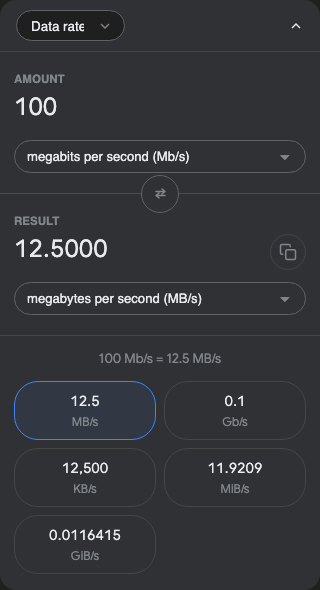
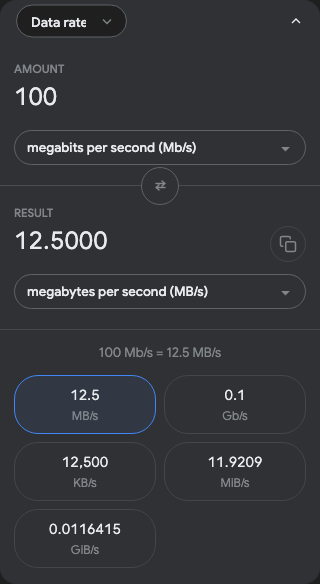
fix(converter): use native accordion typography and dimensions

diff --git a/plugins/unit-slot/style.css b/plugins/unit-slot/style.css
@@ -16,8 +16,9 @@
     box-sizing: border-box;
 }
 
-.uxs-main {
+.uxs-wrap > .uxs-main {
     position: relative;
+    margin-bottom: 0 !important;
 }
 
 /* Reuse visible core panes. The themes make self-contained knowledge wrappers
@@ -36,14 +37,8 @@
 /* ── Category bar ──────────────────────────────────────────────── */
 
 .uxs-top-bar {
+    /* The core disclosure button owns the row's typography and dimensions. */
     position: relative;
-    isolation: isolate;
-    display: flex;
-    align-items: center;
-    min-height: 52px;
-    border-bottom: 1px solid var(--border-light, color-mix(in srgb, currentColor 15%, transparent));
-    padding: 8px 52px 8px 16px;
-    background: transparent;
 }
 
 .uxs-wrap [hidden] {
@@ -51,19 +46,25 @@
 }
 
 .uxs-summary {
-    position: relative;
-    z-index: 1;
-    flex: 1;
     min-width: 0;
-    pointer-events: none;
+    overflow: hidden;
+    text-overflow: ellipsis;
+    white-space: nowrap;
+}
+
+.uxs-wrap[data-collapsed="false"] .uxs-summary {
+    visibility: hidden;
 }
 
 .uxs-category-wrap {
-    flex: 0 1 auto;
-    position: relative;
+    /* Keep the independent picker above the expanded disclosure's label. */
+    position: absolute;
+    left: 16px;
+    top: 50%;
+    transform: translateY(-50%);
     z-index: 1;
     min-width: 0;
-    max-width: 100%;
+    max-width: calc(100% - 68px);
 }
 
 .uxs-category-wrap::after {
@@ -91,55 +92,18 @@
     pointer-events: none;
 }
 
-.uxs-summary {
-    overflow: hidden;
-    text-overflow: ellipsis;
-    white-space: nowrap;
-    font-size: 0.88rem;
-    font-variant-numeric: tabular-nums;
-}
-
-.uxs-toggle {
-    /* The disclosure fills the row; the native picker remains above it. */
-    position: absolute;
-    inset: 0;
-    z-index: 0;
-    display: flex;
-    align-items: center;
-    justify-content: flex-end;
-    width: 100%;
-    height: 100%;
-    padding: 0 16px;
-    border: 0;
-    border-radius: 0;
-    background: transparent;
-    color: var(--text-primary, inherit);
-    cursor: pointer;
-}
-
-.uxs-toggle:hover {
-    background: var(--bg-hover, rgba(128, 128, 128, 0.12));
-}
-
-.uxs-toggle:focus-visible,
 .uxs-quick-tile:focus-visible {
     outline: 2px solid var(--primary, #1a73e8);
     outline-offset: -2px;
 }
 
 .uxs-toggle > .accordion-chevron {
-    flex-shrink: 0;
     pointer-events: none;
     transform: rotate(180deg) !important;
-    transition: transform 0.15s ease;
 }
 
 .uxs-wrap[data-collapsed="true"] .uxs-toggle > .accordion-chevron {
     transform: rotate(0) !important;
-}
-
-.uxs-wrap[data-collapsed="true"] .uxs-top-bar {
-    border-bottom: 0;
 }
 
 .uxs-category-select {

diff --git a/plugins/unit-slot/template.html b/plugins/unit-slot/template.html
@@ -1,15 +1,15 @@
-<div class="uxs-wrap" data-measure="{{measure}}">
+<div class="uxs-wrap" data-measure="{{measure}}" data-collapsed="false">
   <div class="uxs-main sidebar-panel degoog-panel degoog-panel--accordion">
     <div class="uxs-top-bar">
-      <span class="uxs-summary" aria-live="polite" hidden>{{amount}} {{from_code}} = {{result}} {{to_code}}</span>
+      <button type="button" class="degoog-accordion-toggle uxs-toggle" aria-expanded="true" aria-controls="uxs-body" aria-label="{{ t:plugin-unit-slot.collapseConverter }}" title="{{ t:plugin-unit-slot.collapseConverter }}">
+        <span class="uxs-summary" aria-live="polite" aria-hidden="true">{{amount}} {{from_code}} = {{result}} {{to_code}}</span>
+        <svg class="accordion-chevron" width="16" height="16" viewBox="0 0 24 24" fill="none" stroke="currentColor" stroke-width="2"><polyline points="6 9 12 15 18 9"/></svg>
+      </button>
       <div class="degoog-select-wrap uxs-category-wrap">
         <span class="uxs-category-size" aria-hidden="true">{{measure}}</span>
         <select class="degoog-input uxs-category-select" id="uxs-category-select" aria-label="{{ t:plugin-unit-slot.category }}"></select>
         <svg class="accordion-chevron" width="16" height="16" viewBox="0 0 24 24" fill="none" stroke="currentColor" stroke-width="2"><polyline points="6 9 12 15 18 9"/></svg>
       </div>
-      <button type="button" class="uxs-toggle" aria-expanded="true" aria-controls="uxs-body" aria-label="{{ t:plugin-unit-slot.collapseConverter }}" title="{{ t:plugin-unit-slot.collapseConverter }}">
-        <svg class="accordion-chevron" width="16" height="16" viewBox="0 0 24 24" fill="none" stroke="currentColor" stroke-width="2"><polyline points="6 9 12 15 18 9"/></svg>
-      </button>
     </div>
 
     <div class="uxs-body" id="uxs-body">

diff --git a/plugins/unit-slot/script.js b/plugins/unit-slot/script.js
@@ -2697,7 +2697,7 @@ var require_digital = function () { return toolkitDigitalDefinitions(false); };
       card.dataset.collapsed = String(value);
       body.hidden = value;
       categoryWrap.hidden = value;
-      summary.hidden = !value;
+      summary.setAttribute("aria-hidden", String(!value));
       toggle.setAttribute("aria-expanded", String(!value));
       var label = value ? translateLabel("expandConverter", "Expand converter") : translateLabel("collapseConverter", "Collapse converter");
       toggle.setAttribute("aria-label", label);

diff --git a/themes/literallyapple/style.css b/themes/literallyapple/style.css
@@ -890,13 +890,6 @@ html[dir="rtl"] #image-filters-bar.open {
 #results-page
     #results-sidebar
     .sidebar-accordion.lg-sidebar-knowledge.open
-    > .sidebar-accordion-toggle.degoog-accordion-toggle--sidebar {
-    border-bottom: 0;
-}
-
-#results-page
-    #results-sidebar
-    .sidebar-accordion.lg-sidebar-knowledge.open
     > .sidebar-accordion-body {
     background: var(--la-card);
     border: 1px solid var(--border-light);
